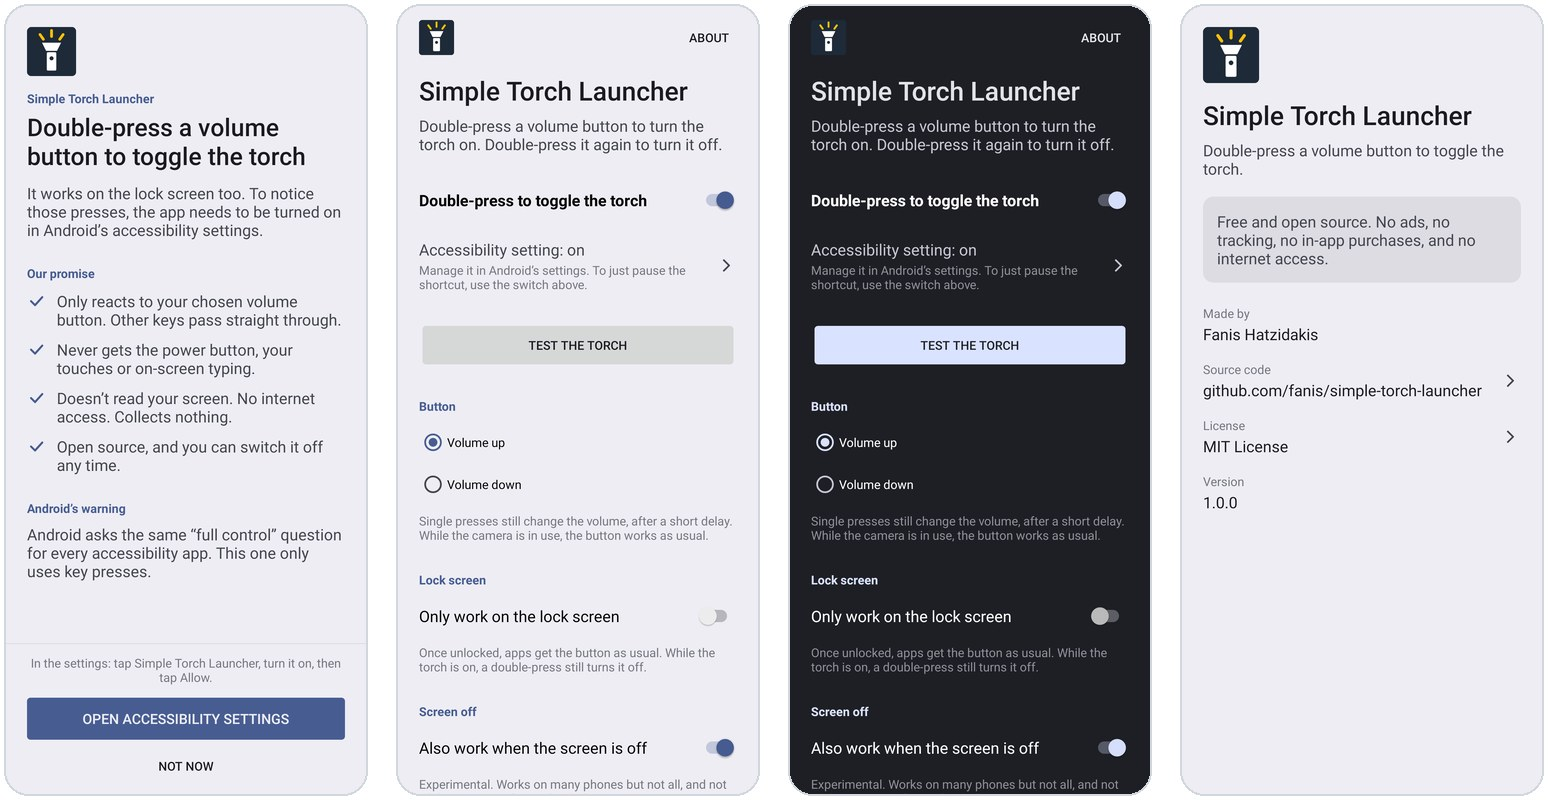
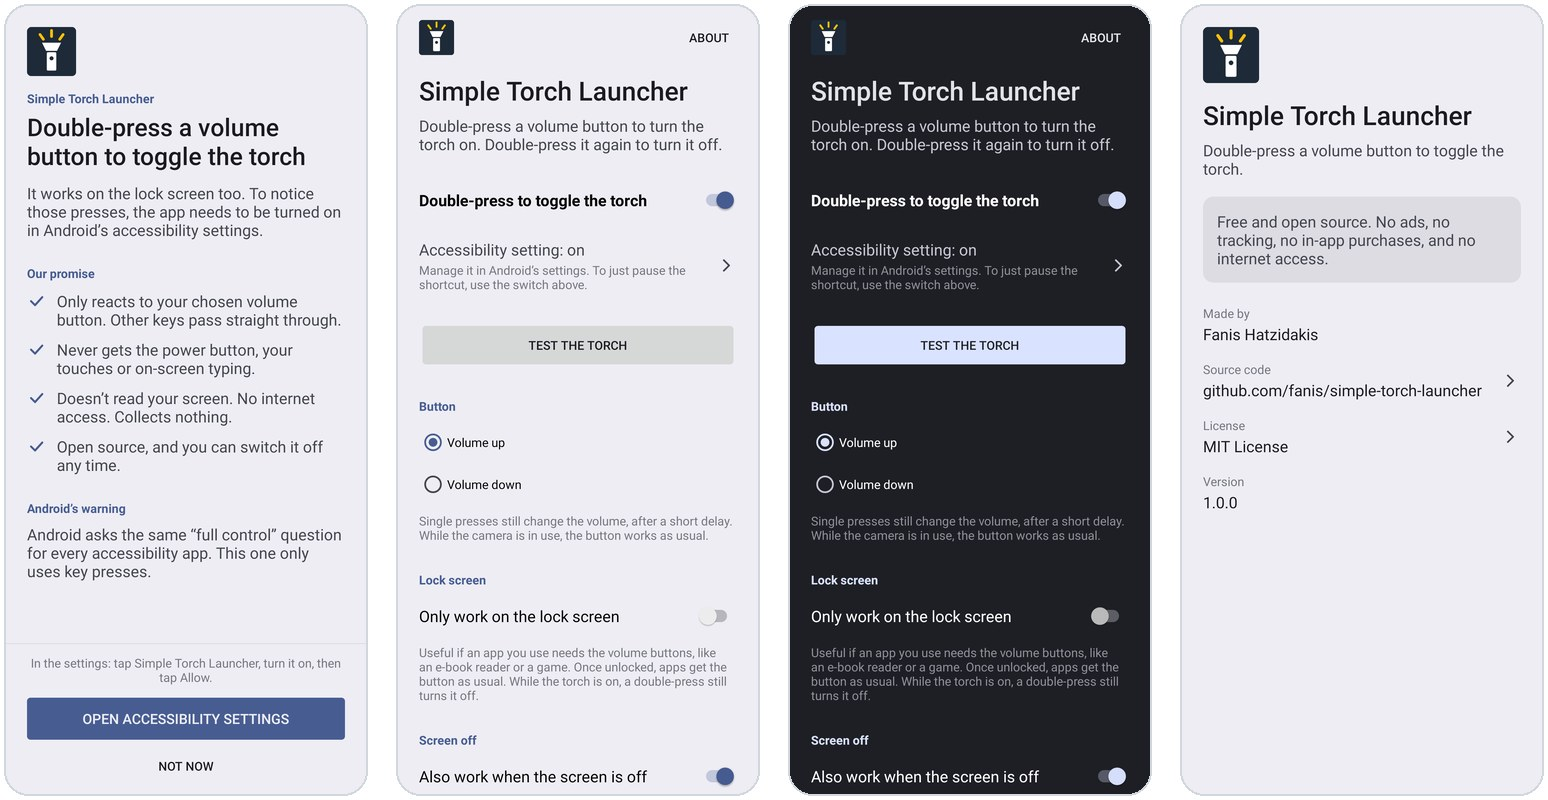
Say what the lock-screen-only option is for
Its note, the README and the F-Droid description now name the apps it helps, like e-book readers and games.

Changed region(s): [[0.5271, 0.8125, 0.7442, 1.0], [0.2791, 0.8125, 0.4961, 1.0]]

diff --git a/README.md b/README.md
@@ -9,7 +9,8 @@ Double-press a volume button to switch the torch (flashlight) on. Double-press i
 - Pick volume up or volume down as the trigger.
 - Single presses still change the volume as usual, after a short delay (400 ms).
 - Works on the lock screen, and optionally while the screen is off (experimental).
-- Optionally only on the lock screen, so apps get the button as usual once the phone is unlocked.
+- Optionally only on the lock screen, so apps that use the volume buttons, like e-book readers or
+  games, get them as usual once the phone is unlocked.
 - Steps aside while the camera is in use, so the button still works as a camera shutter.
 - An on/off switch in the app, and a button to test the torch.
 - Free and open source (MIT). No ads, no tracking, no internet permission, no dependencies.
